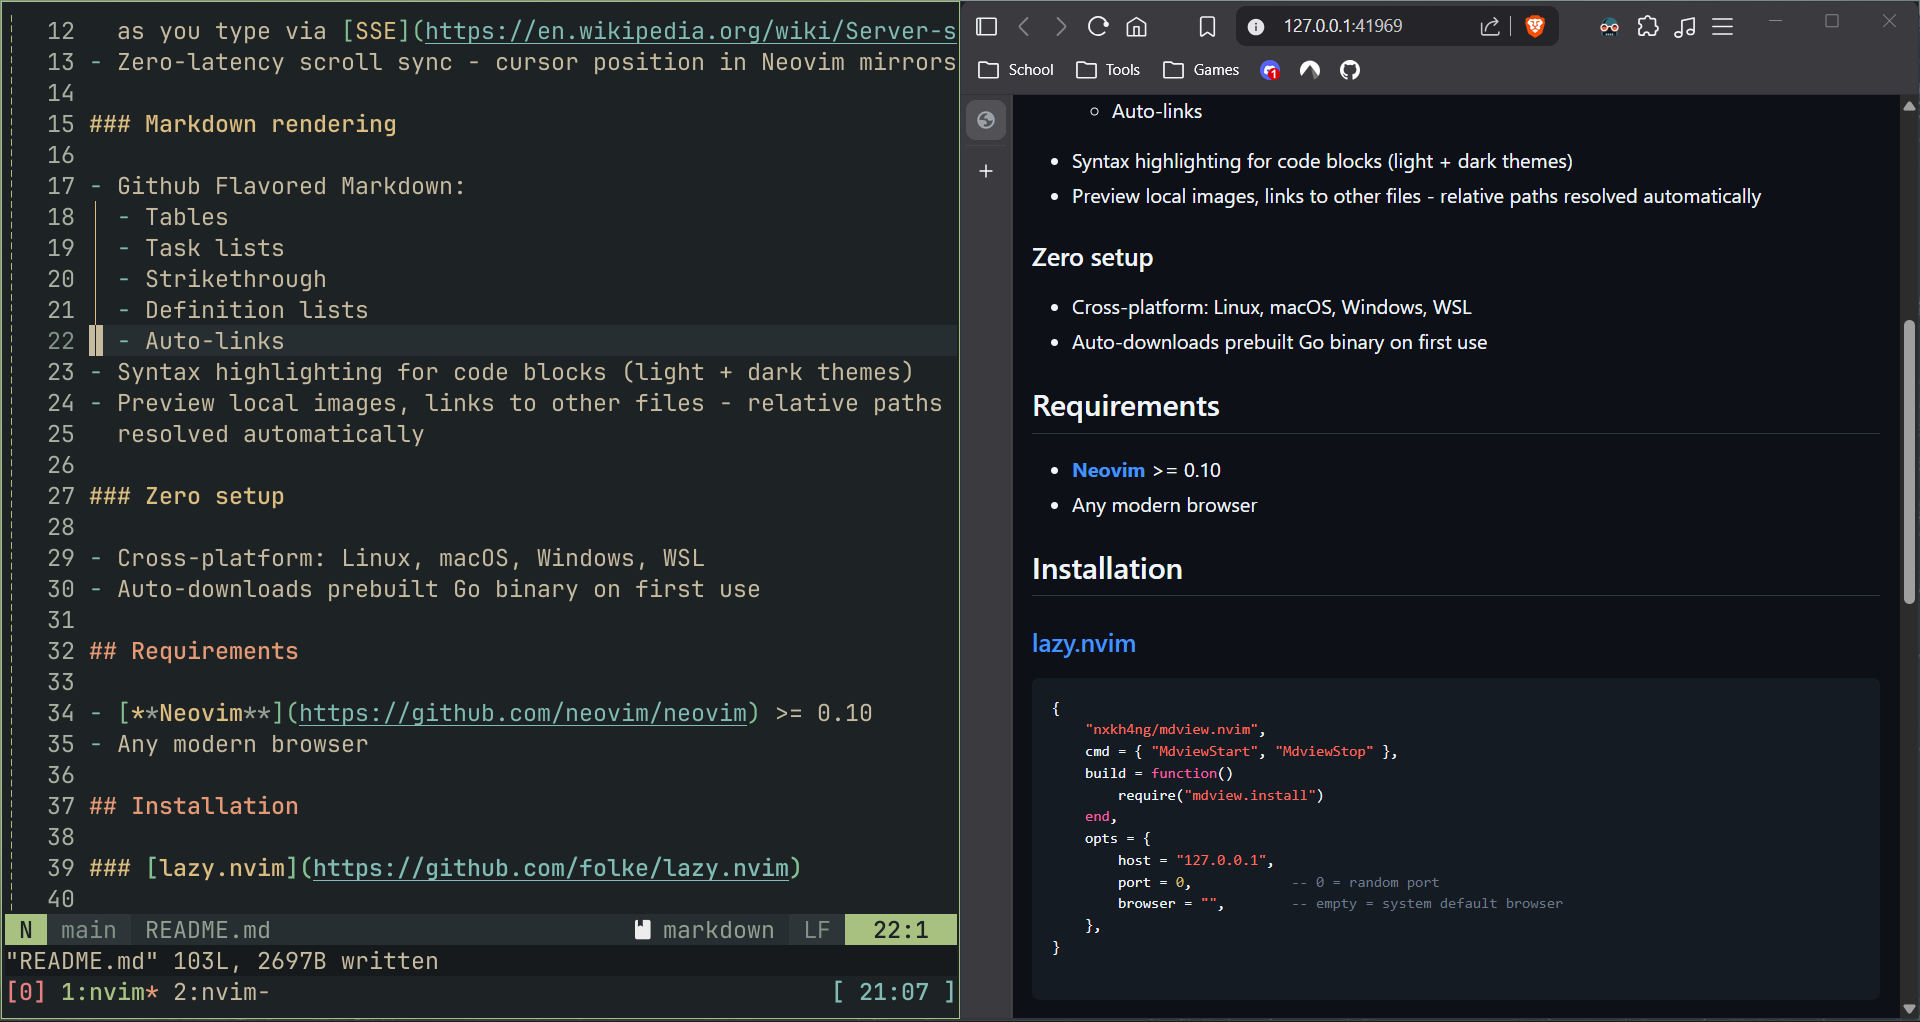
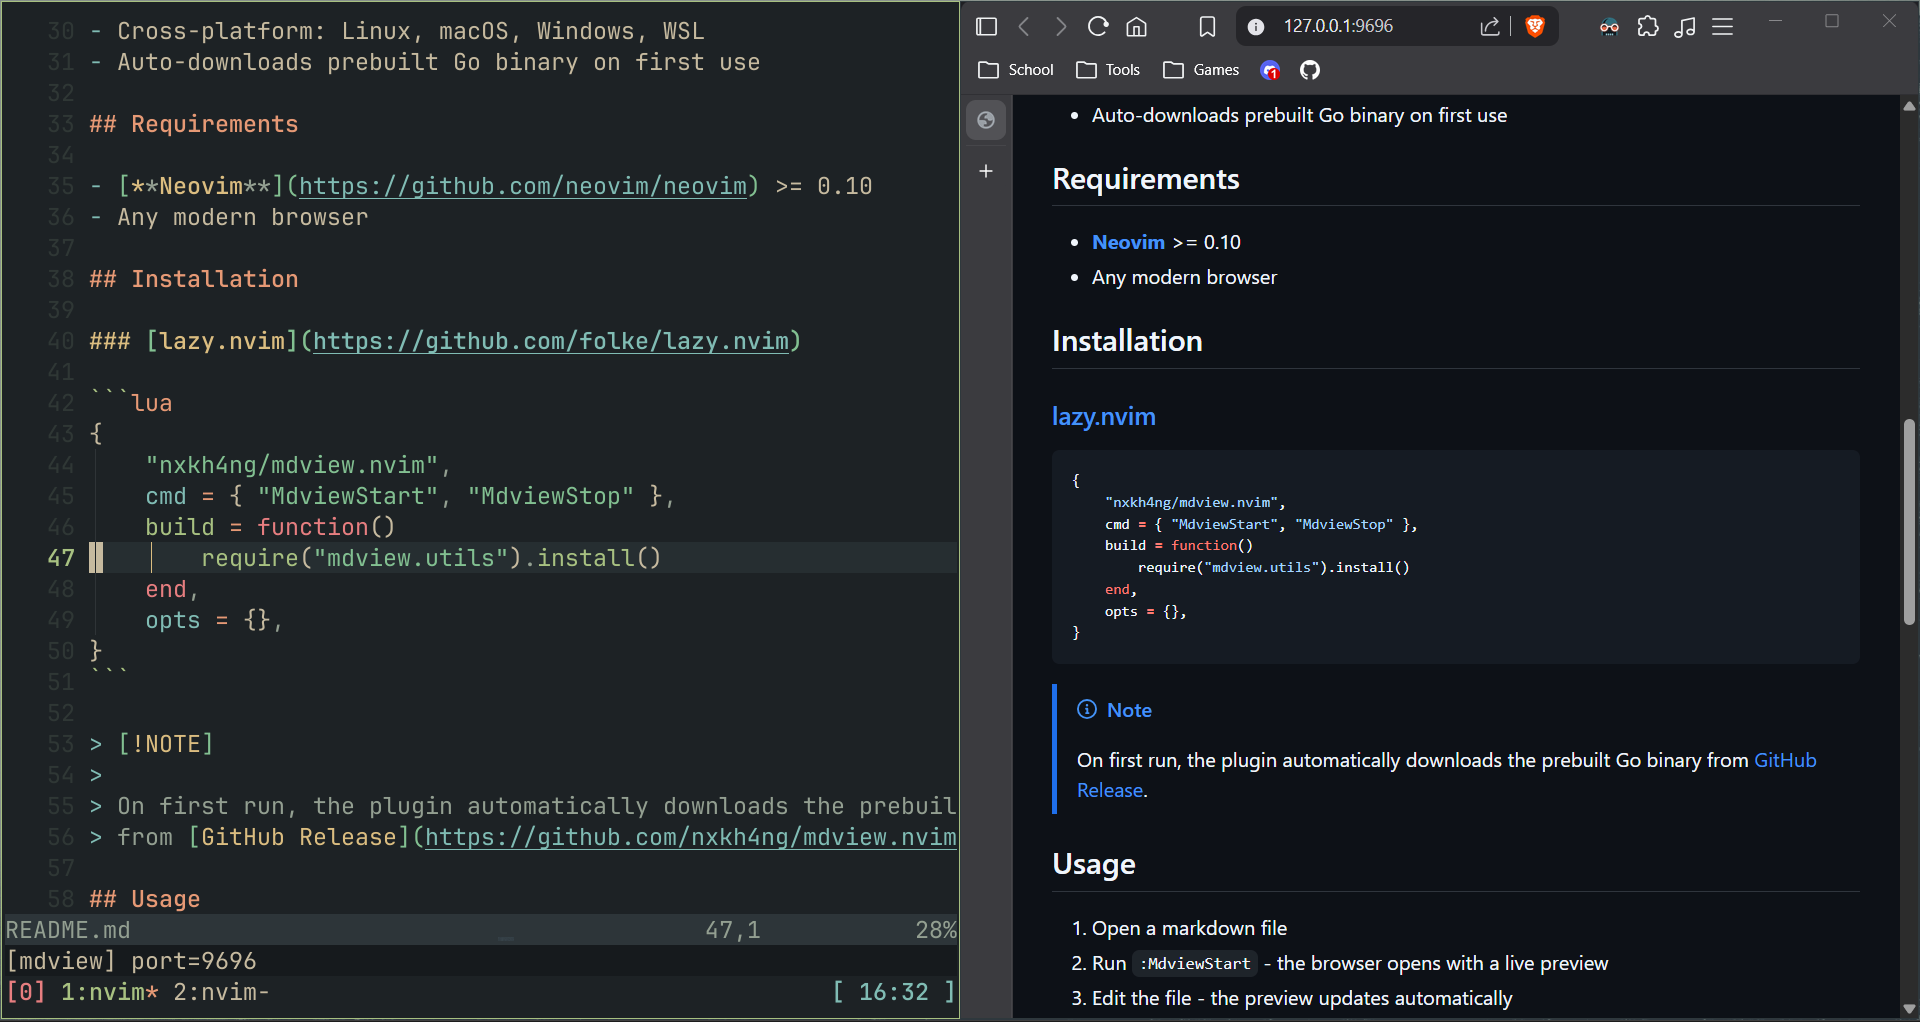
ci: compress binaries with UPX
- .goreleaser.yaml: UPX section with LZMA best compression
- Makefile: add upx step to dev target (graceful if not installed)
- release.yml: install upx via crazy-max/ghaction-upx@v4 before goreleaser

diff --git a/README.md b/README.md
@@ -2,7 +2,7 @@
 
 > Live markdown preview in your browser.
 
-![Demo](./assets/demo.gif)
+![Demo](./assets/mdview.png)
 
 ## Features
 
